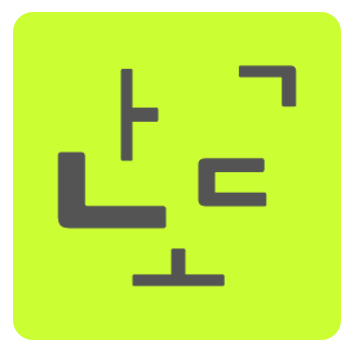
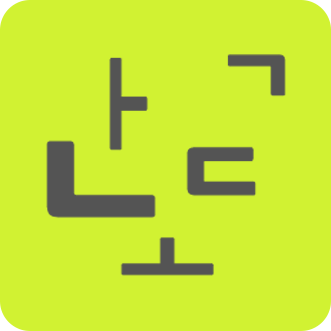
아이콘 교체 및 좋아요 ajax

diff --git a/app/assets/javascripts/application.js b/app/assets/javascripts/application.js
@@ -24,6 +24,18 @@ if ($(window).width() < 1000){
 }
 */
 
+function imgIconHover(selector){
+	prev = ""
+	$( selector ).hover(
+		function() {
+			prev = $(this).attr('src')
+			prev_split = prev.split(".")
+			$( this ).attr('src',  prev_split[0] + "rev" + ".png")
+		}, function() {
+			$( this ).attr('src', prev)
+		}
+	);
+}
 // change width and height of modal board
 // 필드업을 눌러서, 옵션을 선택했을 때 나오는 보드의 크기를 조정한다.
 // 다음 변수를 통해 판단한다
@@ -154,17 +166,8 @@ $(function(){
 	//	feeldup Background를일단 숨겨놓음 
 	hideModalBG();
 
-	// icon hover
-	prev = ""
-	$( ".nav-icon, #feeldup img" ).hover(
-		function() {
-			prev = $(this).attr('src')
-			prev_split = prev.split(".")
-			$( this ).attr('src',  prev_split[0] + "rev" + ".png")
-		}, function() {
-			$( this ).attr('src', prev)
-		}
-	);
+	imgIconHover(".nav-icon");
+	imgIconHover("#feeldup img");
 	
 	
 	// #feeldup click

diff --git a/app/assets/stylesheets/application.scss b/app/assets/stylesheets/application.scss
@@ -68,6 +68,18 @@ input{
 	border: none !important;
 }
 
+#feeld{
+	img{
+		height: 30px;
+	}
+}
+
+#feeldin{
+	img{
+		height: 30px;
+	}
+}
+
 // CC로 축약해 부를 것이다
 #contents-container {
 	margin-left: 25px;
